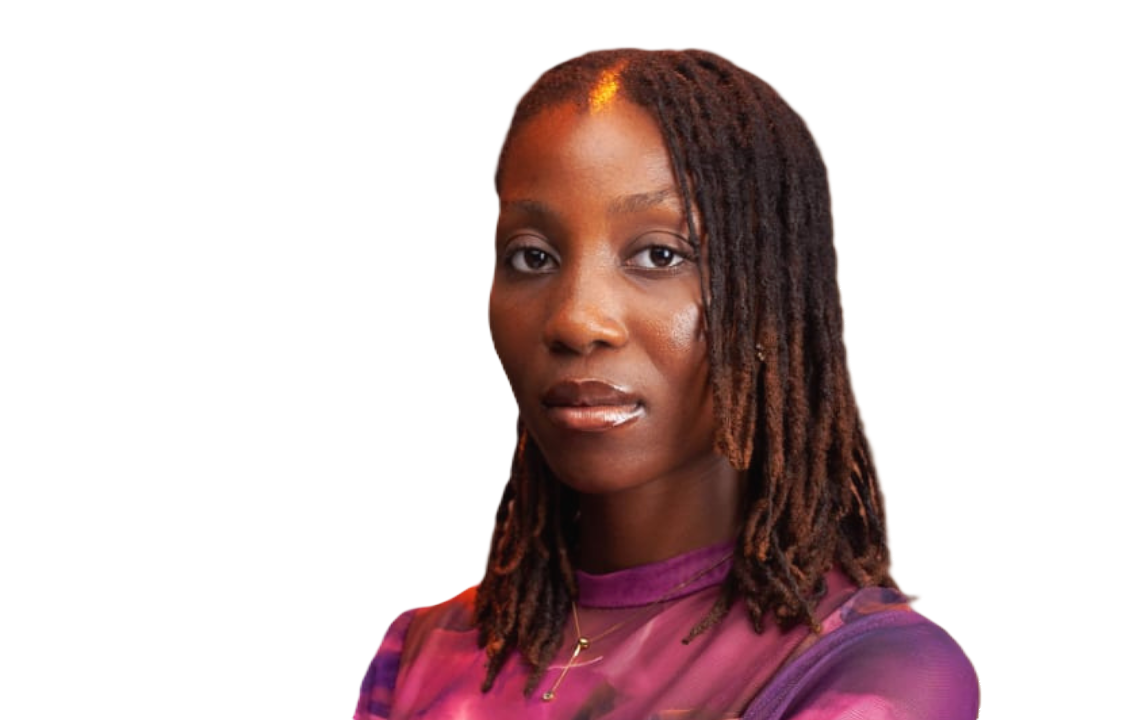
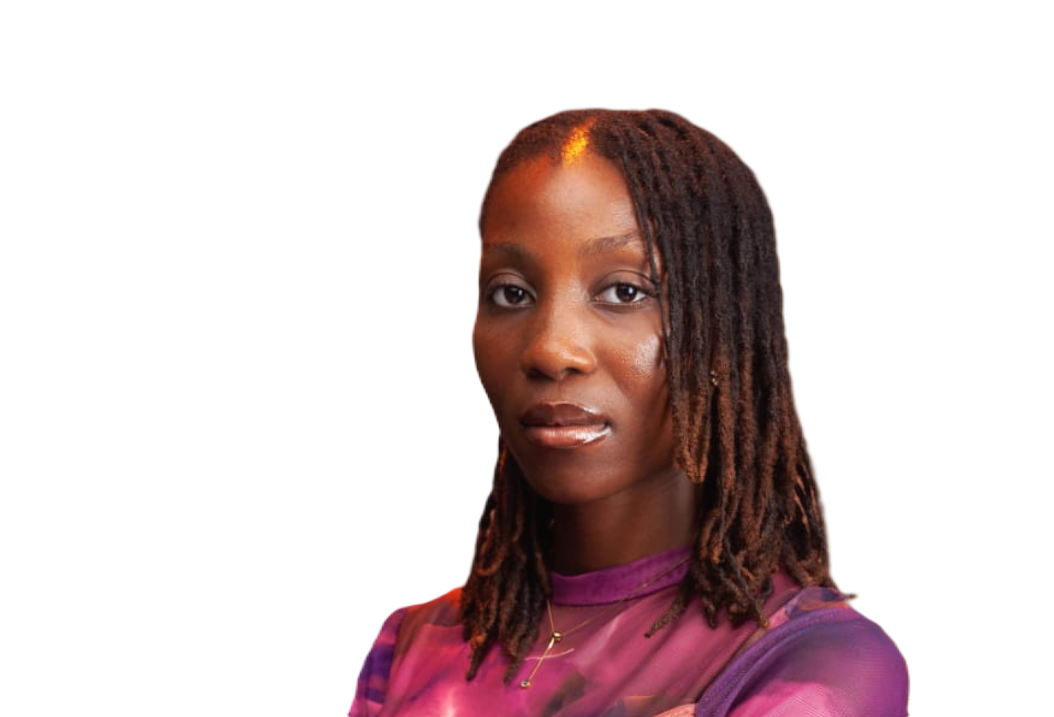
update on overall theme switcher

Changed region(s): [[0.3036, 0.0614, 0.8197, 1.0], [0.8501, 0.8898, 0.8805, 1.0], [0.8197, 0.8591, 0.8501, 0.8898]]

diff --git a/src/app/portfolio/page.tsx b/src/app/portfolio/page.tsx
@@ -11,12 +11,14 @@ import Link from "next/link";
 import React, { useEffect, useRef, useState } from "react";
 import frontendProjects from "@/src/projectData/frontendData.json";
 import dataProjects from "@/src/projectData/analysisData.json";
+import { useTheme } from "@/src/context/ThemeContext";
 
 const Portfolio = () => {
   const [activeTab, setActiveTab] = useState("frontend");
   const scrollRef = useRef<HTMLDivElement | null>(null);
   const [currentIndex, setCurrentIndex] = useState(1);
   const projectRefs = useRef<(HTMLElement | null)[]>([]);
+  const { theme } = useTheme();
 
   const handleScrollDown = () => {
     if (scrollRef.current) {
@@ -104,7 +106,8 @@ const Portfolio = () => {
         <div className="absolute bottom-[10%]">
           <button
             onClick={handleScrollDown}
-            className="rounded-full cursor-pointer border border-white w-32 py-2 px-3"
+            // className="rounded-full cursor-pointer border border-white py-2 px-3"
+            className={` ${theme === "light" ? "border-black" : "border-white"} rounded-full absolute bottom-[10%] lg:relative cursor-pointer border font-normal font-alro-reg py-2 px-3`}
           >
             Scroll down
           </button>
@@ -121,23 +124,25 @@ const Portfolio = () => {
           {currentIndex}/{totalProjects}
         </div>
         {/* Tabs */}
-        <div className="flex gap-8 lg:gap-28 justify-center py-6 sticky top-0 bg-[#0A0A0C] z-10">
+        <div className="flex gap-8 lg:gap-28 justify-center py-6 sticky top-0  z-10">
           <p
-            className={`cursor-pointer ${
-              activeTab === "frontend"
-                ? "text-white border-b-4 border-cyan"
-                : "lg:opacity-25 opacity-50"
-            }`}
+            className={`cursor-pointer
+            ${theme === "light" ? "!text-black" : "text-white"}
+             ${activeTab === "frontend"
+              ? "border-b-4 border-cyan"
+              : "lg:opacity-25 opacity-50"
+              }`}
             onClick={() => setActiveTab("frontend")}
           >
             Frontend Developer
           </p>
           <p
-            className={`cursor-pointer ${
-              activeTab === "data"
-                ? "text-white border-b-4 border-cyan"
-                : "lg:opacity-25 opacity-50"
-            }`}
+            className={`cursor-pointer
+              ${theme === "light" ? "!text-black" : "text-white"}
+               ${activeTab === "data"
+              ? "border-b-4 border-cyan"
+              : "lg:opacity-25 opacity-50"
+              }`}
             onClick={() => setActiveTab("data")}
           >
             Data Analyst
@@ -158,7 +163,7 @@ const Portfolio = () => {
                 className=" w-full flex items-center justify-center"
                 href={`/portfolio/${activeTab}/${proj.slug} `}
               >
-                <h3 className="font-azeret-mono lg:w-[80%]  cursor-pointer text-center text-4xl lg:text-8xl hover:text-sharp-yellow">
+                <h3 className="font-azeret-mono lg:w-[80%]  cursor-pointer text-center text-4xl lg:text-8xl">
                   {proj.title}
                 </h3>
               </Link>
@@ -190,7 +195,7 @@ const Portfolio = () => {
       <div className="px-8 lg:px-14 3xl:px-28 py-28">
         <div className="flex items-center justify-between mb-8">
           <p className="font-alro-reg text-3xl">Latest Article</p>
-          <Button variant="bordered" text="View All" />
+          <Button variant="bordered" link="/articles" text="View All" />
         </div>
         <div>
           <Row gutter={[56, 56]}>

diff --git a/src/components/ArticlesCard.tsx b/src/components/ArticlesCard.tsx
@@ -2,6 +2,7 @@ import React from "react";
 import { Button } from "./buttons/Button";
 import Image from "next/image";
 import Link from "next/link";
+import { useTheme } from "../context/ThemeContext";
 
 interface ArticleCardProps {
   articleTitle: string;
@@ -22,8 +23,11 @@ export const ArticlesCard: React.FC<ArticleCardProps> = ({
   imageSrc,
   articleSlug,
 }) => {
+    const { theme } = useTheme();
+  
+
   return (
-    <div className="w-full h-full border border-white/50 bg-[#0A0A0C] p-5 rounded-lg flex flex-col gap-4 3xl:gap-8 justify-between">
+    <div className={`w-full h-full border ${theme === "light" ? "border-black/50 bg-white/25 text-black" : "border-white/50 bg-[#0A0A0C] text-white"}    p-5 rounded-lg flex flex-col gap-4 3xl:gap-8 justify-between`}>
       {imageSrc && (
         <Image
           src={imageSrc}

diff --git a/src/components/Navbar.tsx b/src/components/Navbar.tsx
@@ -3,6 +3,7 @@
 import Image from "next/image";
 import React, { useEffect, useState, useRef } from "react";
 import brandLogo from "@/public/icons/brand-logo.svg";
+import brandLogoDark from "@/public/icons/footer-logo.svg";
 import arrowIcon from "@/public/icons/arrow-line.svg";
 import Link from "next/link";
 import { CloseOutlined, MenuOutlined } from "@ant-design/icons";
@@ -72,7 +73,7 @@ export const Navbar = () => {
             }`}
         >
           <Link href={"/"}>
-            <Image src={brandLogo} alt="brand-logo" />
+            <Image className="w-[20px] h-[18px]" src={theme === "dark" ? brandLogo : brandLogoDark} alt="brand-logo" />
           </Link>
           <div className="flex gap-8 3xl:gap-14 items-center font-alro-reg">
             <Link href="/" className="z-[1000px]">

diff --git a/src/app/globals.css b/src/app/globals.css
@@ -75,7 +75,7 @@ body {
 
 /* For light theme */
 .light-theme.landing_bg {
-  background: url('../../public/profileImage-white3.png');
+  background: url('../../public/profileImage-white.png');
   background-position: right;
   background-repeat: no-repeat;
   background-size: contain;
